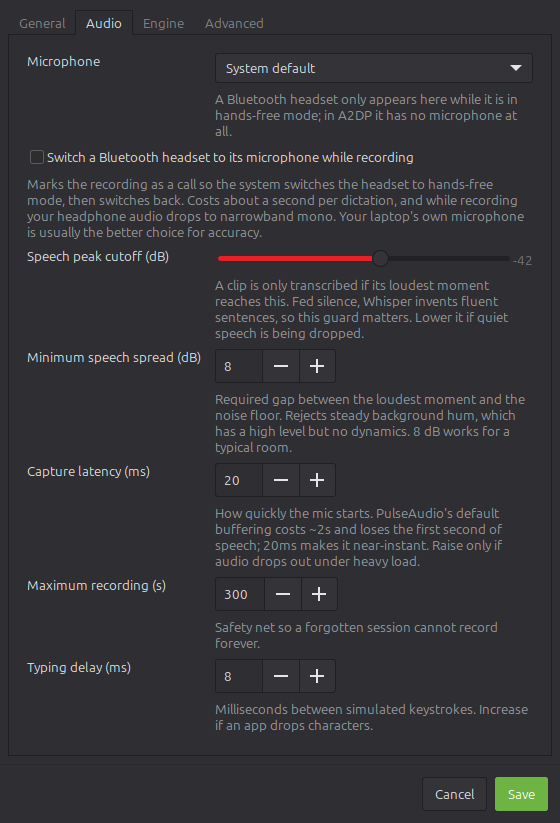
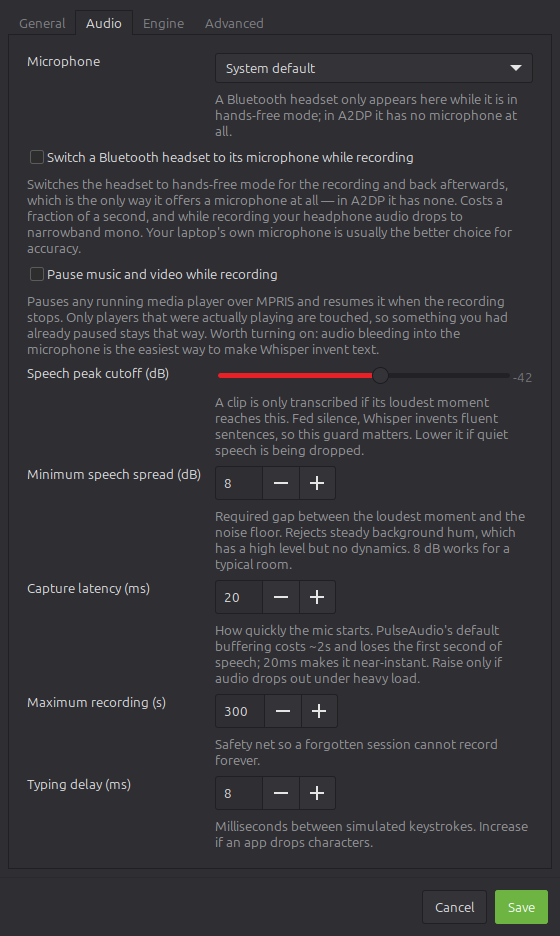
Screenshot all four settings tabs
Engine and Advanced were documented in text but never pictured, and the Audio
shot predated the option to pause media players.

make_screenshots.py had also broken silently in the ui/ restructure: it still
imported settings_dialog from the package root, where it has not lived since
the GTK front end moved to ui/gtk_settings.py. Nobody noticed because the
script is only run when the UI changes, which is exactly when a stale
screenshot is most misleading.

The Advanced tab shows a config path, and the generated shot correctly
displays the generic ~/ form rather than this machine's home directory --
the script builds the dialog from DEFAULTS for that reason.

diff --git a/tools/make_screenshots.py b/tools/make_screenshots.py
@@ -31,6 +31,8 @@ OUT_DIR = ROOT / "docs" / "screenshots"
 SHOTS = [
     ("settings-general.png", "x11", (), 0, "everything available"),
     ("settings-audio.png", "x11", (), 1, "everything available"),
+    ("settings-engine.png", "x11", (), 2, "everything available"),
+    ("settings-advanced.png", "x11", (), 3, "everything available"),
     ("settings-wayland.png", "wayland", ("xdotool", "wtype", "ydotool"), 0,
      "no way to type"),
 ]
@@ -55,7 +57,8 @@ from pathlib import Path
 import gi
 gi.require_version("Gtk", "3.0")
 from gi.repository import Gtk, GLib
-from whisper_dictate_local import backend, settings_dialog
+from whisper_dictate_local import backend
+from whisper_dictate_local.ui import gtk_settings as settings_dialog
 from whisper_dictate_local.config import Config, DEFAULTS
 backend.refresh()
 # Never this machine's real path.

diff --git a/README.md b/README.md
@@ -445,7 +445,9 @@ edited by hand. Stored in `~/.config/whisper-dictate-local/config.json`.
 
 | General | Audio |
 |---|---|
-| ![The General tab: language, translation, result, shortcut and notification settings](docs/screenshots/settings-general.png) | ![The Audio tab: microphone, Bluetooth profile switching, the silence gate and capture latency](docs/screenshots/settings-audio.png) |
+| ![The General tab: language, translation, result, shortcut, vocabulary hint, notifications and sound cues](docs/screenshots/settings-general.png) | ![The Audio tab: microphone, Bluetooth profile switching, pausing media, the silence gate, capture latency and typing delay](docs/screenshots/settings-audio.png) |
+| **Engine** | **Advanced** |
+| ![The Engine tab: on-demand start, the idle timeout that releases VRAM, server URL and timeout](docs/screenshots/settings-engine.png) | ![The Advanced tab: model file, whisper-cli path, fallback CPU threads and the config file location](docs/screenshots/settings-advanced.png) |
 
 Shown in Mint-Y-Dark; the dialog follows your GTK theme. Regenerate the
 screenshots after a UI change with `python3 tools/make_screenshots.py`.
